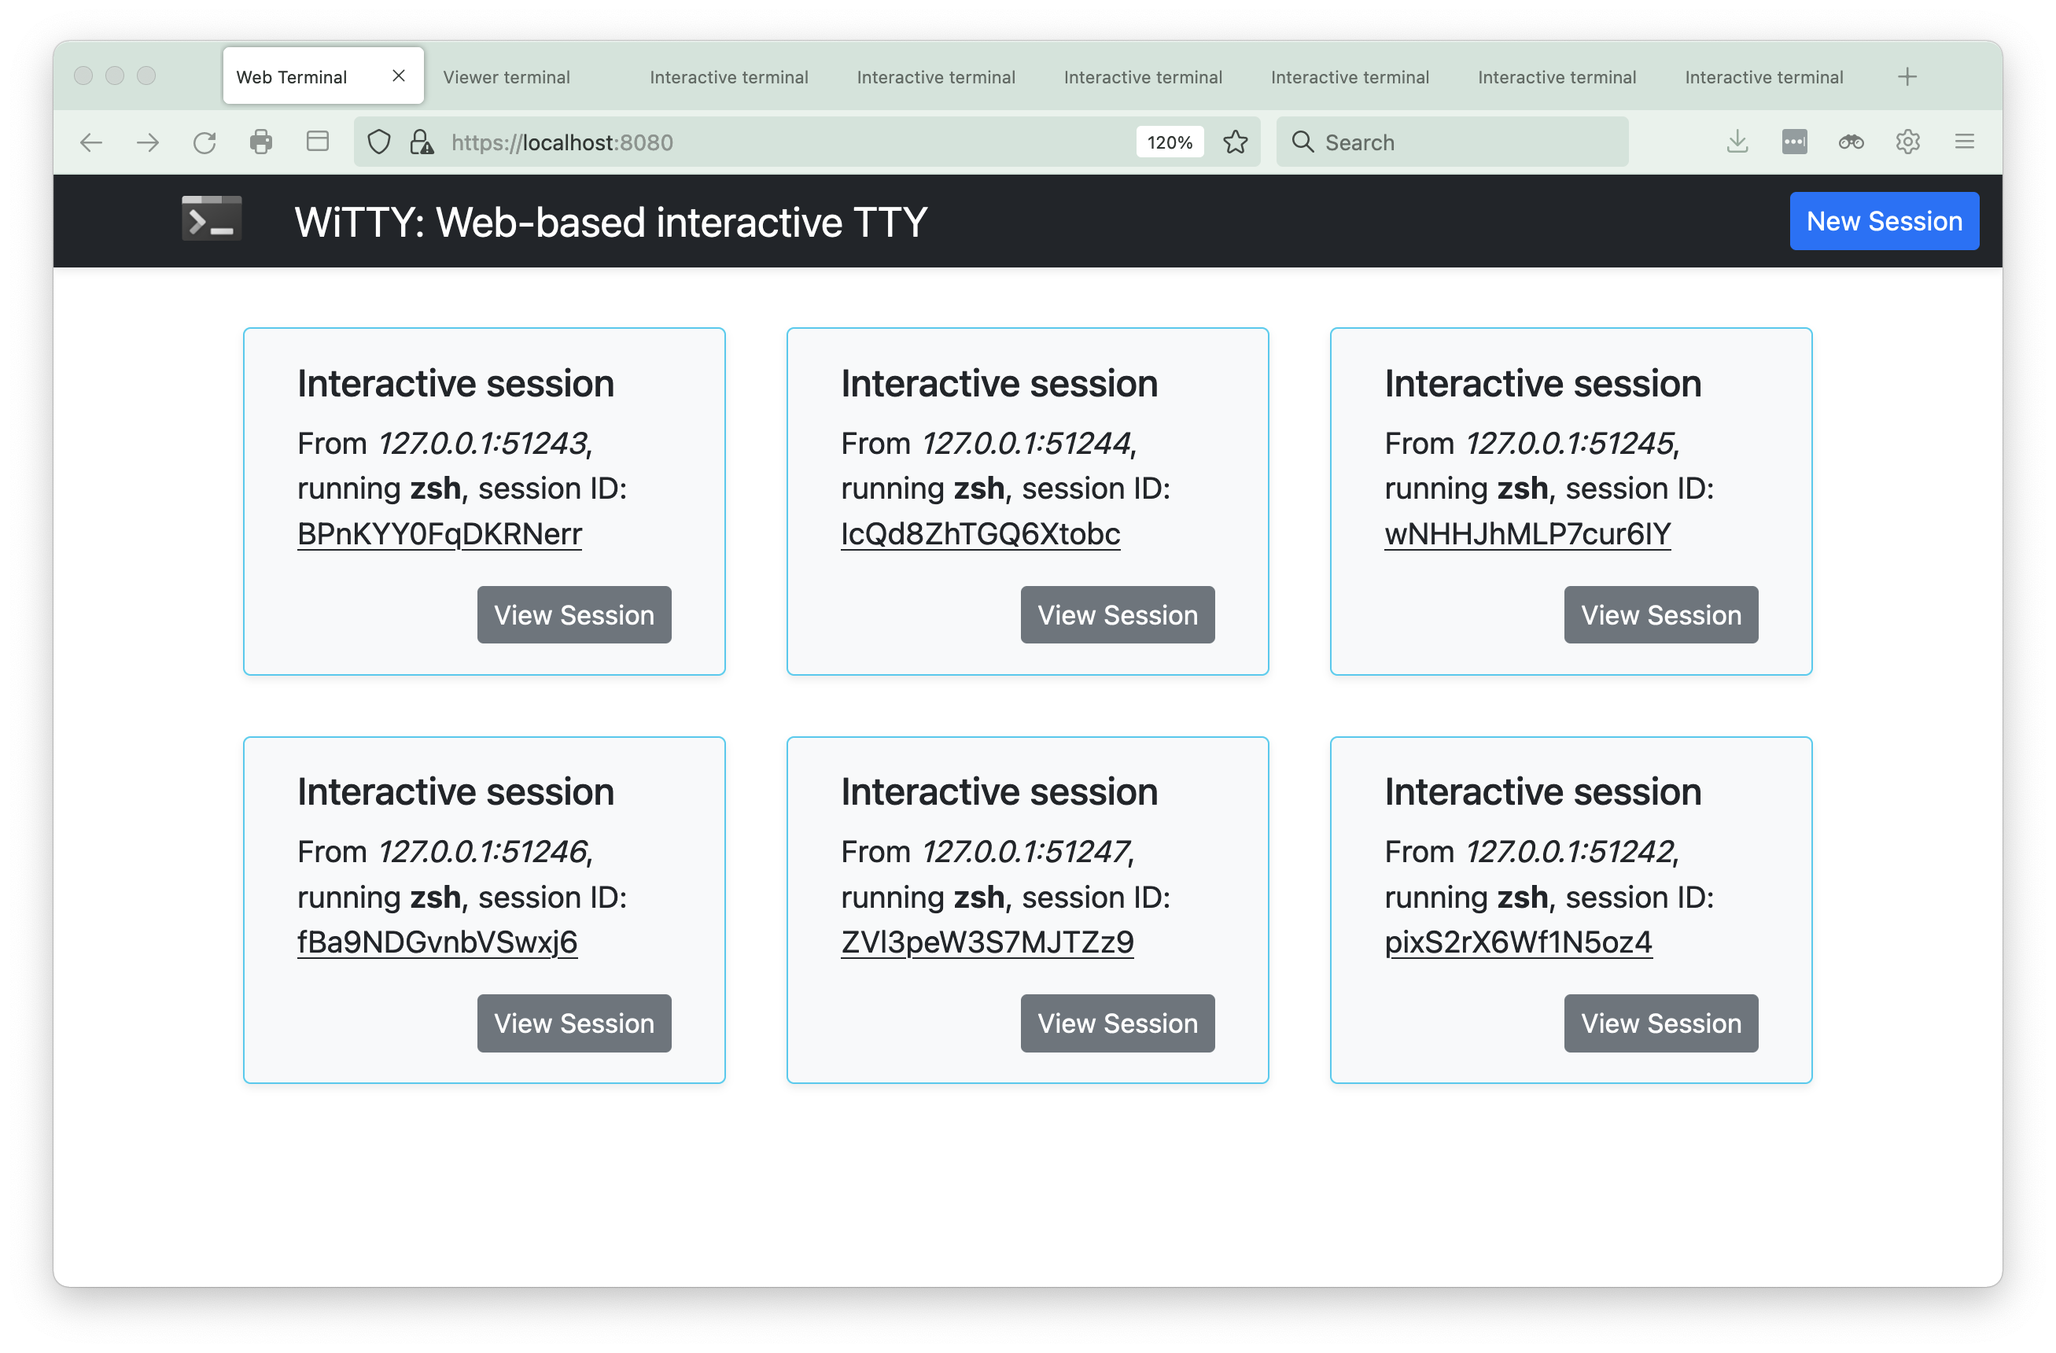
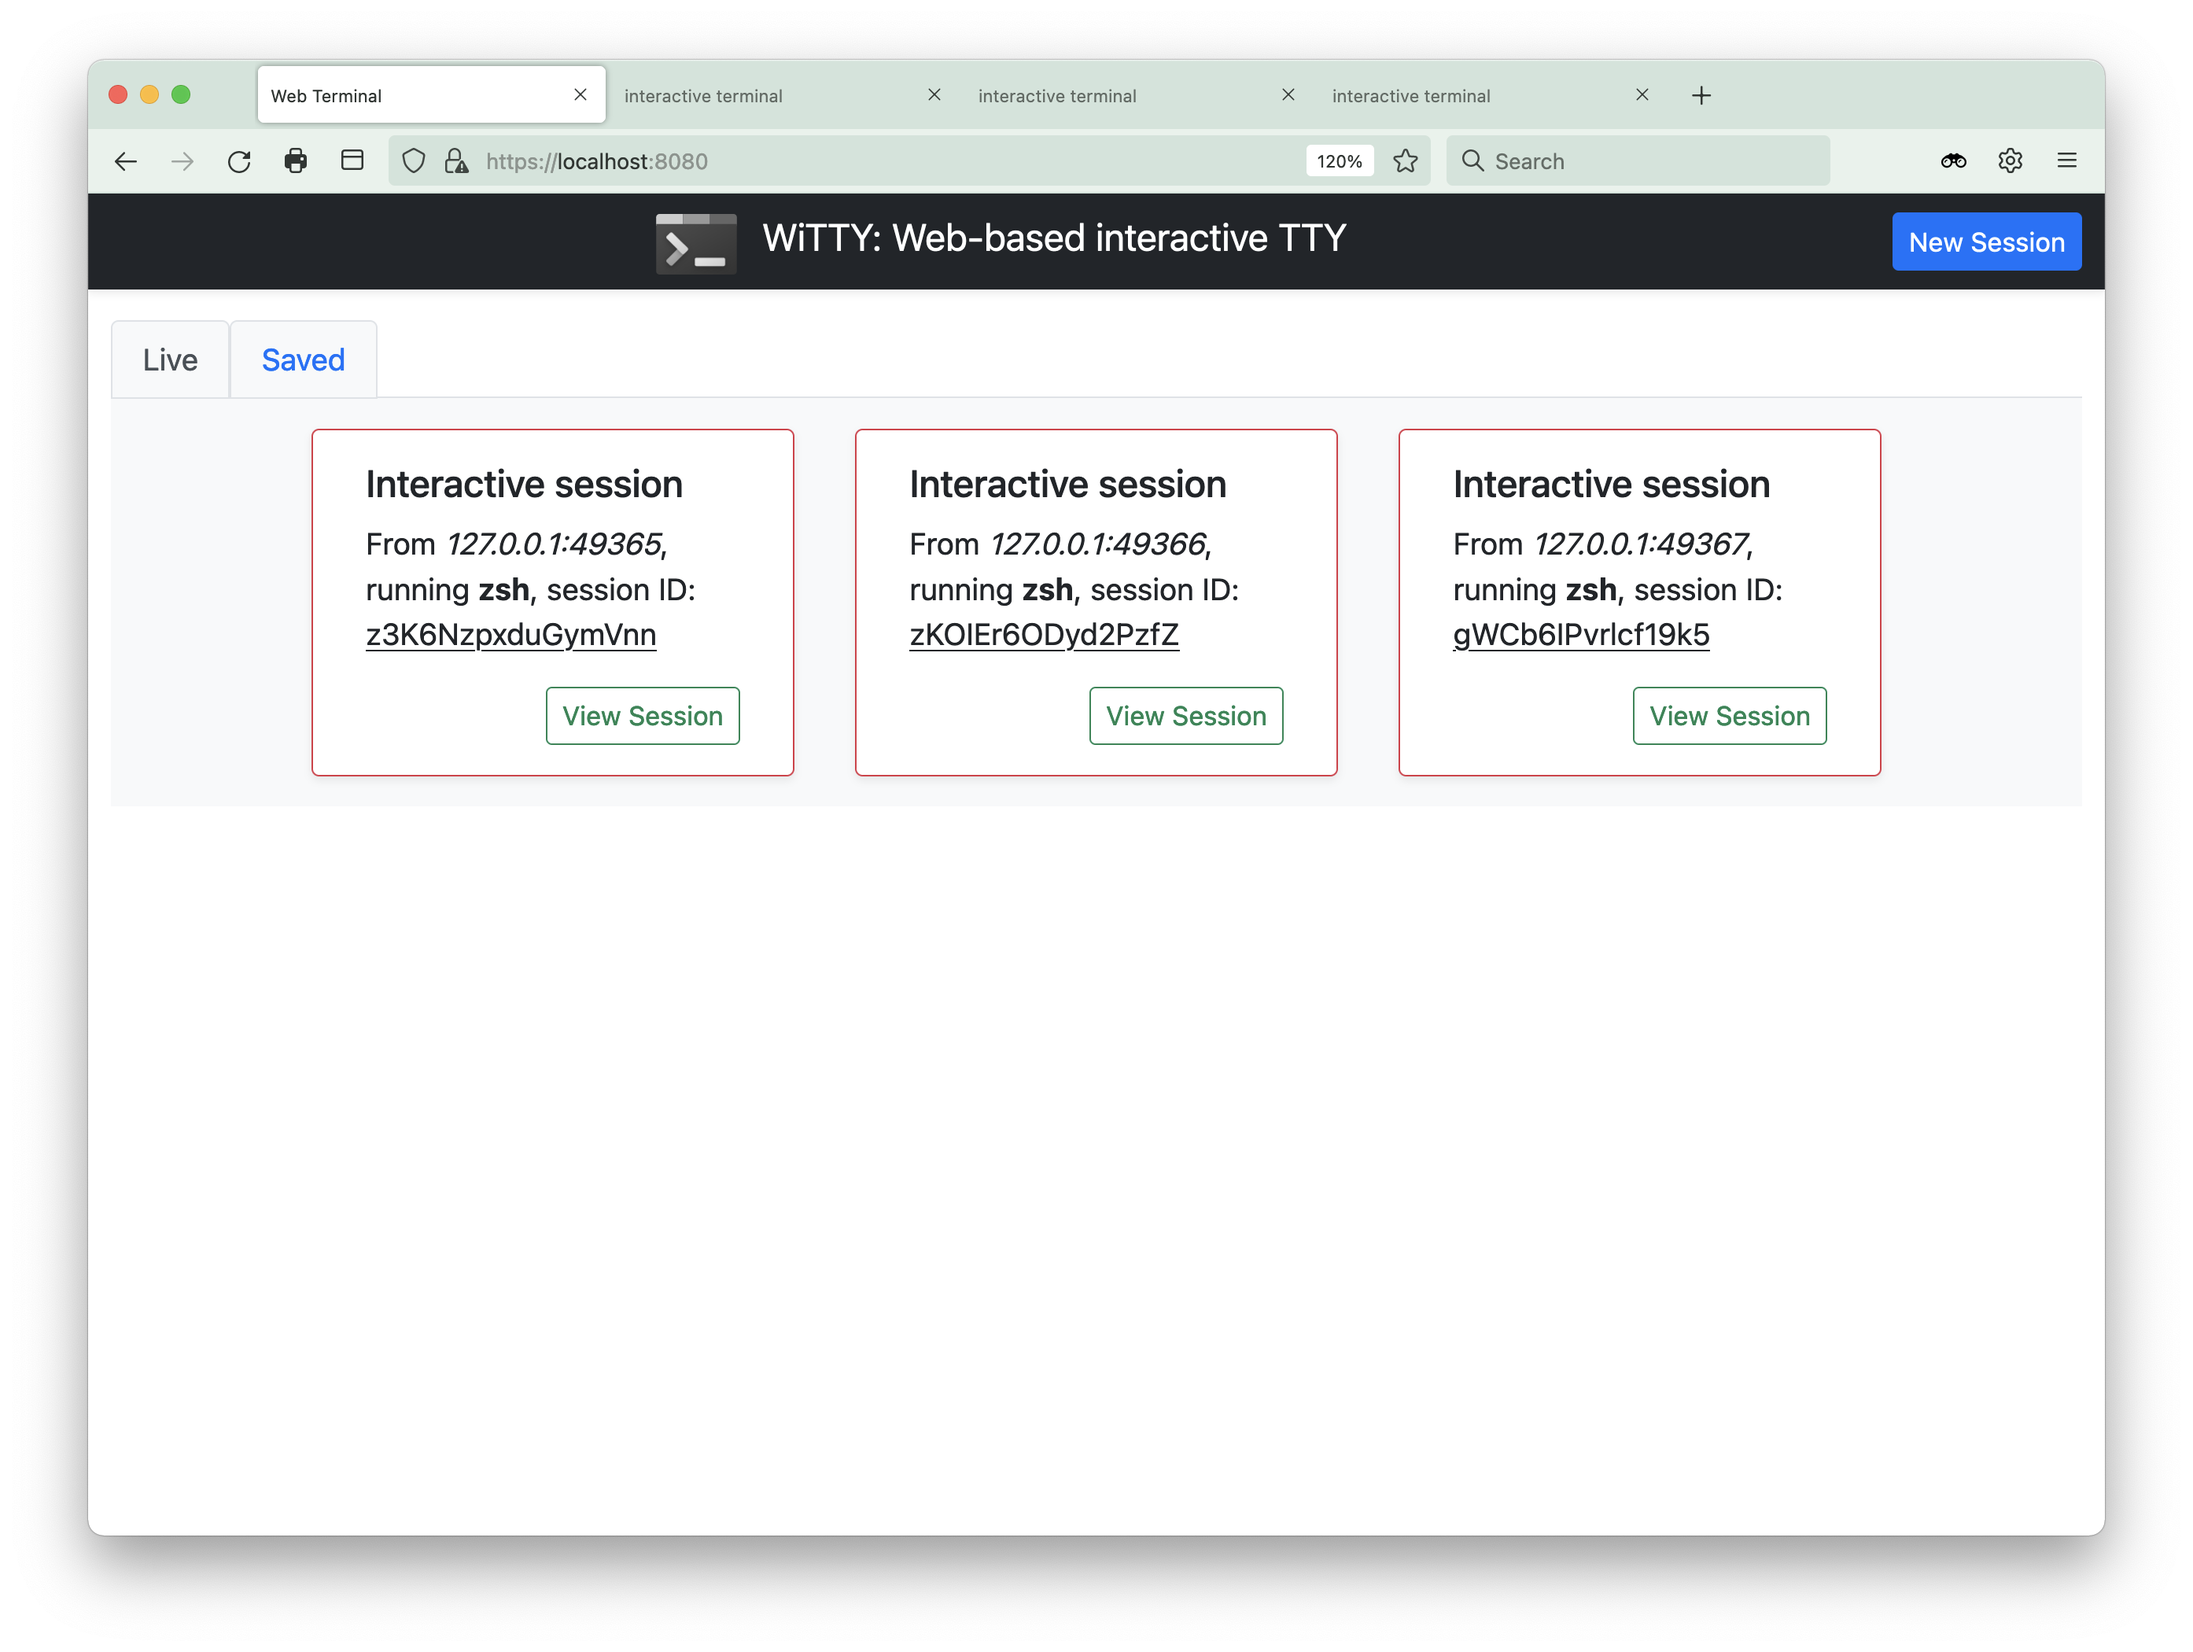
now support record and replay

diff --git a/README.md b/README.md
@@ -1,5 +1,24 @@
 # WiTTY: Web-based interactive TTY
-This program allows you to use terminal in the browser. Simply run the program and give it the command to execute when users connect via the browser. ___Interestingly___, it allows others to view your interactive sessions as well. This could be useful to provide remote support and/or help. You can use the program to run any command line programs, such as ```bash```, ```htop```, ```vi```, ```ssh```. This following screenshot shows that six interactive session running ```zsh``` on macOS Monterey. <img src="https://github.com/syssecfsu/witty/blob/master/extra/main.png?raw=true" width="800px">
+This program allows you to use terminal in the browser. Simply run the program and give it the command to execute when users connect via the browser. ___Interestingly___, it allows others to view your interactive sessions as well. This could be useful to provide remote support and/or help. You can use the program to run any command line programs, such as ```bash```, ```htop```, ```vi```, ```ssh```. This following screenshot shows that three interactive session running ```zsh``` on macOS Monterey. <img src="https://github.com/syssecfsu/witty/blob/master/extra/main.png?raw=true" width="800px">
+
+With WiTTY, you can also __record and replay your interactive sessions__. The following screenshot shows three recorded sessions. You can replay/download/delete them. 
+<img src="https://github.com/syssecfsu/witty/blob/master/extra/view.png?raw=true" width="800px">
+
+
+Here is a session, where we sshed into a Raspberry Pi running 
+[pi-hole](https://pi-hole.net/) 
+(```./witty ssh 192.168.1.2 -l pi```,
+WiTTY runs in a WSL2 VM on Windows) being replayed. You can play/pause the session.
+
+<img src="https://github.com/syssecfsu/witty/blob/master/extra/screencast.gif?raw=true" width="800px">
+
+<!-- 
+commands to create high quality gif from mkv/mp4 files
+ffmpeg -i replay.mkv -vf palettegen palette.png
+ffmpeg -i replay.mkv -i palette.png -lavfi paletteuse output.gif
+gifsicle -O3 .\output.gif -o replay.gif
+-->
+
 
 To use the program, you need to provide a TLS cert. You can request a free [Let's Encrypt](https://letsencrypt.org/) cert or use a self-signed cert. The program currently does not support user authentication. Therefore, do not run it in untrusted networks or leave it running. A probably safe use of the program is to run ```ssh```. Please ensure that you do not automatically login to the ssh server (e.g., via key authentication).
 
@@ -45,16 +64,3 @@ window (xterm.js) and create a websocket with the server, which relays the data 
    ```https://your_ip_address:8080```
 
 The program has been tested on Linux, WSL2, Raspberry Pi 3B (Debian), and MacOSX using Google Chrome, Firefox, and Safari.
-
-<!-- ## Known issue
-
-WiTTY might have some display/encoding issues on macOS with Firefox, especially for zsh. Safari works fine though. -->
-
-## An Screencast <sub>featuring an older version of WiTTY</sub>
-
-Here is a screencast for sshing into Raspberry Pi running 
-[pi-hole](https://pi-hole.net/) 
-(```./witty ssh 192.168.1.2 -l pi```,
-WiTTY runs in a WSL2 VM on Windows):
-
-<img src="https://github.com/syssecfsu/witty/blob/master/extra/screencast.gif?raw=true" width="800px">
